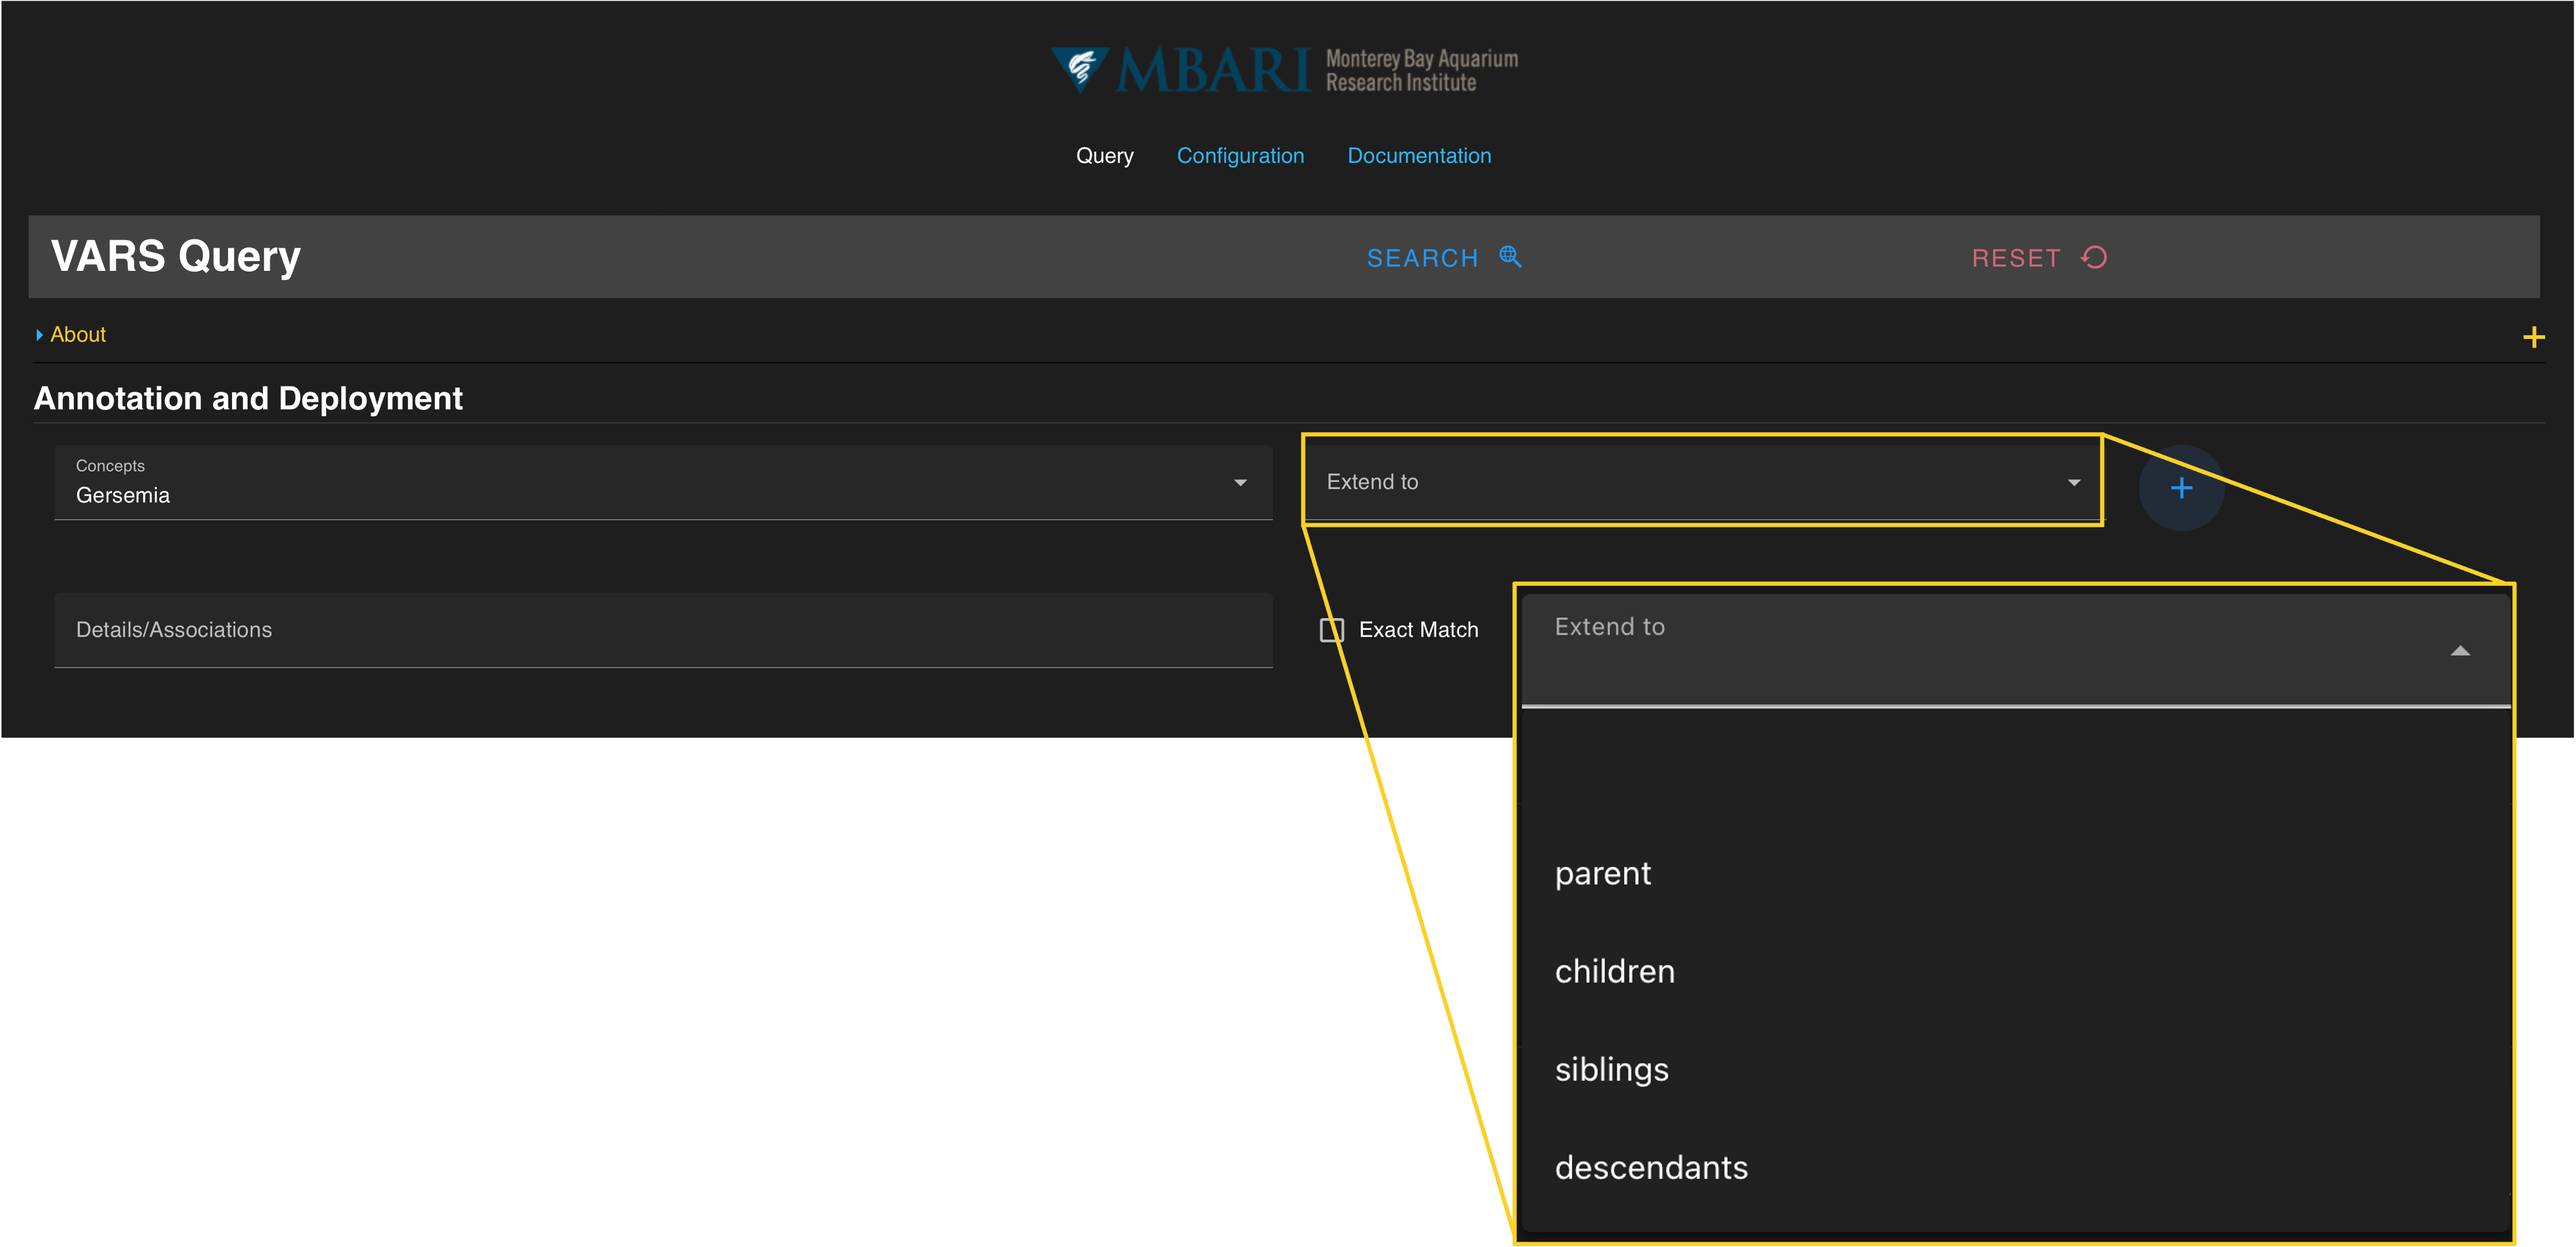
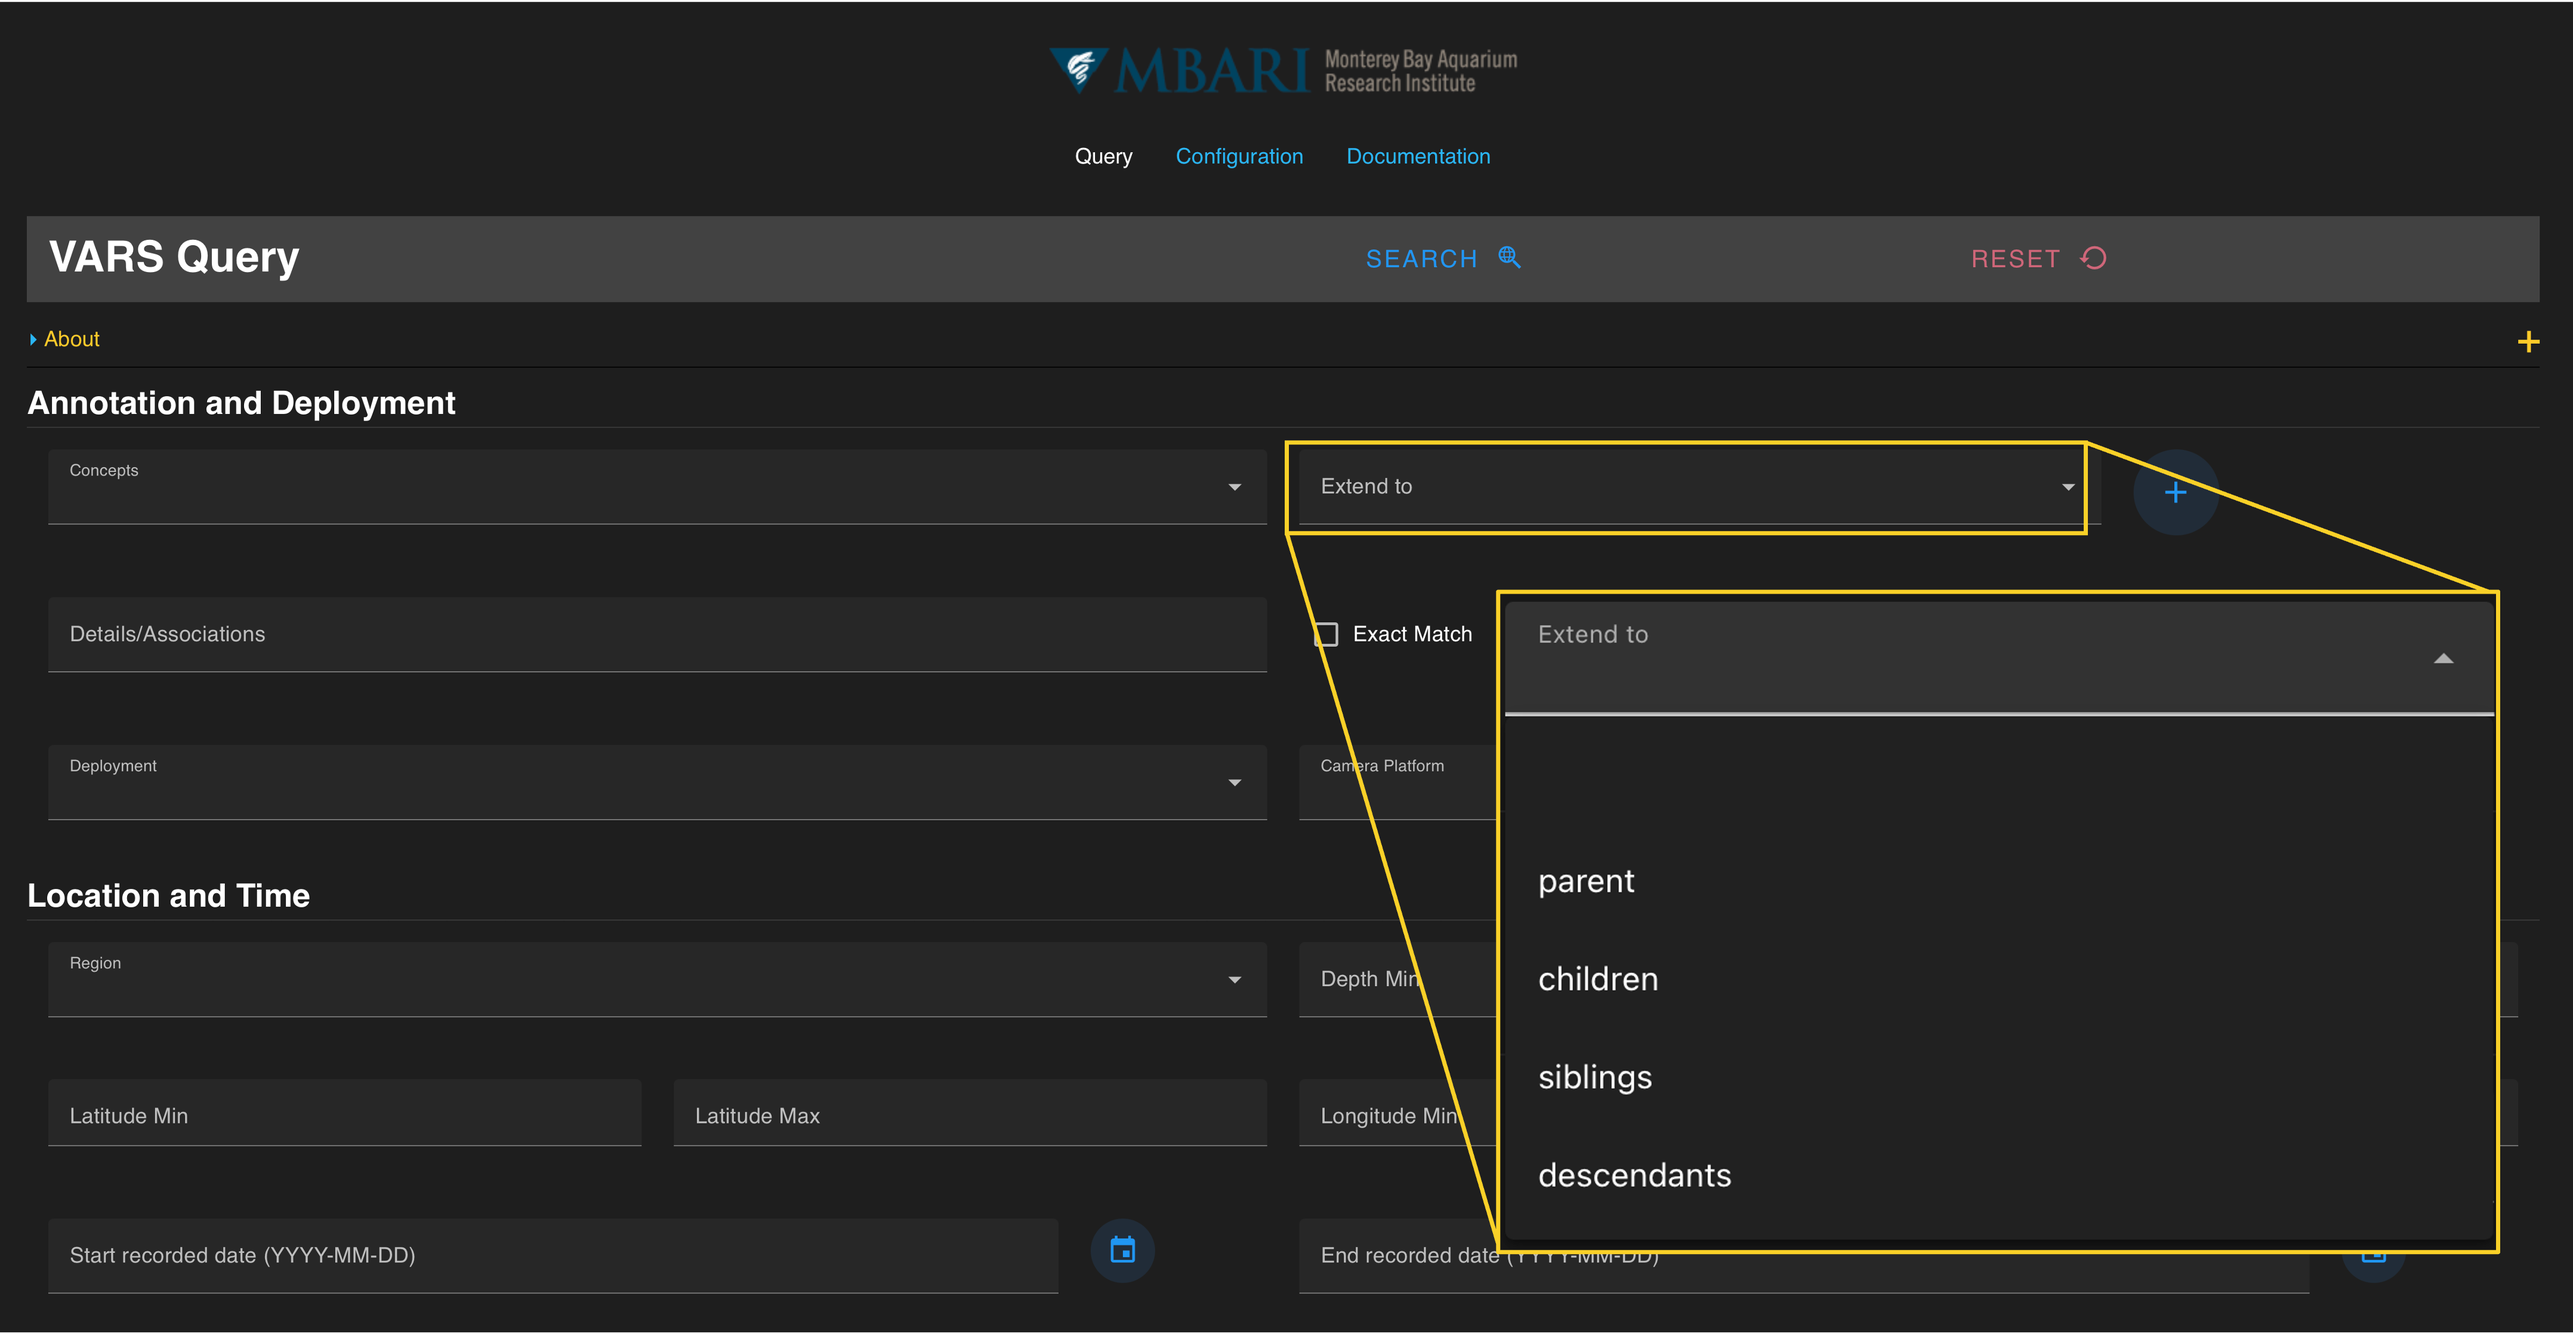
testing formats

diff --git a/docs/doc_01_general_info.md b/docs/doc_01_general_info.md
@@ -4,11 +4,29 @@
 
 ## *Definitions*
  
+ ### General ###
 **VARS** (Video Annotation and Reference System) is a software interface and database system that provides tools for describing, cataloging, retrieving, and viewing the visual, descriptive, and quantitative data associated with MBARI’s deep-sea video archives.
 
 The **VARS Knowledgebase** is an extensible database of biological, geological, and technical terms used to describe deep-sea research conducted by the institute.  This database is composed of identifiable objects called *concepts* (e.g. organisms, equipment, sediment types, etc.). The knowledgebase also contains *associations* which serve as descriptors that can be connected with the objects being annotated (e.g. colors, size, behaviors). 
 
+An **annotation** is an observation made at a specific date and time of MBARI's imagery archive.  Each annotation captures details such as the identity of the observed organism or object (*concept*), its behavior, habitat, or other relevant features </a>(*association*)</p>
+<a name="L17"></a>.
 
-A **concept** is the name of the physical object in an observation.
- 
-An **association** is a descriptor for a concept being observed. Each descriptor must be connected to a concept observation. Multiple associations may be used to describe one observation. A concept can have multiple associations to describe the observation.
+### Query Specific ###
+
+An *association* descriptors to be added to a concept to provide more detail about that annotation (behavior, color, posture, sample information, etc.) Each descriptor must be connected to a concept observation. Multiple associations may be used to describe one observation. A concept can have multiple associations to describe the observation.
+
+An *activity* includes the direction or movement of the camera or the intended activity associated with a particular annotation.
+
+A *camera platform* specifies the platform a camera was deployed on while recording the selected observations.
+
+A *concept* is the name of the physical object in an observation.
+
+A *deployment* refers to a specific ROV dive, AUV or instrument deployments where data and imagery were collected. 
+
+An *observation date* is the date the observation was annotated.  Sometimes this is the same as the recorded date from observations made at sea.
+
+An *observer* is the name od ther person who did the annotation
+
+The *recorded date* is the date the imagery was collected.
+

diff --git a/docs/doc_09_activities.md b/docs/doc_09_activities.md
@@ -1,0 +1,2 @@
+
+An *activity* includes the direction or movement of the camera or the intended activity associated with a particular annotation. You can constrain your search by an activity selected from the drop-down menu.
